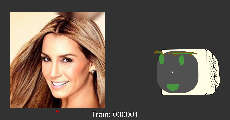
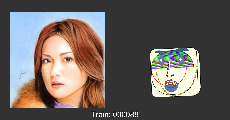
crt try

diff --git a/face.js b/face.js
@@ -32,15 +32,19 @@ function segment_average(segment) {
 function Face() {
   // these are state variables for a face
   // (your variables should be different!)
-  this.detailColour = [73, 150, 65];
+  this.detailColour = [93, 120, 185];
   this.mainColour = [255, 253, 227];
   this.num_eyes = 2;    // can be either 1 (cyclops) or 2 (two eyes)
   this.eye_shift = -1;   // range is -10 to 10
   this.mouth_size = 1;  // range is 0.5 to 8
 
-  this.chinColour = [153, 153, 51]
-  this.lipColour = [136, 68, 68]
-  this.eyebrowColour = [119, 85, 17]
+  this.chinColour = [153, 153, 51];
+  this.lipColour = [136, 68, 68];
+  this.eyebrowColour = [59, 95, 120];
+
+  
+
+  
 
   /*
    * Draw the face with position lists that include:
@@ -48,33 +52,88 @@ function Face() {
    *    bottom_lip, top_lip, nose_tip, nose_bridge, 
    */  
   this.draw = function(positions) {
-    console.log()
+    this.headPosX = positions.nose_bridge[0][0]; // Use nose coordinate as center of the face
+    this.headPosY = positions.nose_bridge[3][1];
+    this.headWidth = positions.chin[16][0] - positions.chin[0][0];
+    this.headHeight = positions.chin[8][1] - positions.nose_bridge[0][1];
+    this.noseTipCenterX = positions.nose_tip[2][0];
+    // this.noseTipSize_right = abs(positions.nose_tip[4][0]);
+    this.roundCorner = 0;
     // head
-    push();
+    
     ellipseMode(CENTER);
     angleMode(DEGREES);
     rectMode(CENTER);
-    // blendMode(LIGHTEST);
+    
     stroke(stroke_color);
     fill(this.mainColour);
-    shearX(5);
-    rect(segment_average(positions.chin)[0]+1.4, 0, 3.6, 3, 0.9);
-    rect(segment_average(positions.chin)[0]+1, 0, 3.6, 3.5, 0.5);
+
     push();
-    strokeWeight(0.01);
-    for (hatchingY = -1; hatchingY < 1.4; hatchingY += 0.1){
-      line(segment_average(positions.chin)[0]+2.8, hatchingY, segment_average(positions.chin)[0]+2.5-hatchingY*0.04, hatchingY-0.2);
-      line(segment_average(positions.chin)[0]+2.8, hatchingY, segment_average(positions.chin)[0]+3-hatchingY*0.02, hatchingY-0.1);
-      line(segment_average(positions.chin)[0]+2.8, hatchingY-0.2, segment_average(positions.chin)[0]+3-hatchingY*0.02, hatchingY);
+    // shearX(5);
+    if(this.headWidth < this.headHeight) {
+      this.roundCorner = this.headWidth * 0.25; 
+    } 
+    else if(this.headWidth > this.headHeight){
+      this.roundCorner = this.headHeight * 0.25;
     }
-    pop();
-    shearX(-5);
-    rect(segment_average(positions.chin)[0]+0.5, 0, 3.5, 3.5, 0.2);
-    noStroke();
-    fill(81, 81, 82);
-    rect(segment_average(positions.chin)[0], 0, 3.2, 3.2, 1.2);
+    // rect(segment_average(positions.chin)[0]+1.4, 0, 3.6, 3, 0.9);
+    // rect(segment_average(positions.chin)[0]+1, 0, 3.6, 3.5, 0.5);
+    rect(this.headPosX - this.noseTipCenterX *2.5, this.headPosY, this.headWidth*1.1, this.headHeight*1.25*1.1, this.roundCorner);
+    // shearX(-5);
+    rect(this.headPosX - this.noseTipCenterX * 1.5, this.headPosY, this.headWidth*1.1, this.headHeight*1.25*1.1, this.roundCorner * 0.6);
+
+    push();
+    // blendMode(HARD_LIGHT);
+    // noStroke();
+    fill(255, 50, 50);
+    rect(this.headPosX - this.noseTipCenterX, this.headPosY, this.headWidth, this.headHeight*1.25, this.roundCorner * 2);
+    fill(this.mainColour);
+    rect(this.headPosX - this.noseTipCenterX, this.headPosY, this.headWidth, this.headHeight*1.25, this.roundCorner * 2);
+    noFill();
+    stroke('red');
+    ellipse(this.headPosX - this.noseTipCenterX - this.headWidth / 2 + this.roundCorner * 2,
+            this.headPosY - this.headHeight*1.25 /2 + this.roundCorner * 2,
+            this.roundCorner * 2 * 2);
+
+    strokeWeight(0.01);
+    stroke(0);
+    for(topLeftCorner = 1; topLeftCorner < 90; topLeftCorner+=2){
+      stroke(255, 0, 0);
+      line(this.headPosX - this.noseTipCenterX - this.headWidth / 2 + this.roundCorner * 2 - cos(topLeftCorner) * this.roundCorner * 2,
+      this.headPosY - this.headHeight*1.25 /2 + this.roundCorner * 2 - sin(topLeftCorner) * this.roundCorner * 2,
+      this.headPosX - this.noseTipCenterX + this.headWidth / 2 - this.roundCorner * 2 + cos(topLeftCorner) * this.roundCorner * 2,
+      this.headPosY - this.headHeight*1.25 /2 + this.roundCorner * 2 - sin(topLeftCorner) * this.roundCorner * 2
+      );
+      stroke(0, 255, 0);
+      line(this.headPosX - this.noseTipCenterX - this.headWidth / 2 + this.roundCorner * 2 - cos(topLeftCorner-0.5) * this.roundCorner * 2,
+      this.headPosY - this.headHeight*1.25 /2 + this.roundCorner * 2 - sin(topLeftCorner-0.5) * this.roundCorner * 2,
+      this.headPosX - this.noseTipCenterX + this.headWidth / 2 - this.roundCorner * 2 + cos(topLeftCorner-0.5) * this.roundCorner * 2,
+      this.headPosY - this.headHeight*1.25 /2 + this.roundCorner * 2 - sin(topLeftCorner-0.5) * this.roundCorner * 2
+      );
+      stroke(0, 0, 255);
+      line(this.headPosX - this.noseTipCenterX - this.headWidth / 2 + this.roundCorner * 2 - cos(topLeftCorner+0.5) * this.roundCorner * 2,
+      this.headPosY - this.headHeight*1.25 /2 + this.roundCorner * 2 - sin(topLeftCorner+0.5) * this.roundCorner * 2,
+      this.headPosX - this.noseTipCenterX + this.headWidth / 2 - this.roundCorner * 2 + cos(topLeftCorner+0.5) * this.roundCorner * 2,
+      this.headPosY - this.headHeight*1.25 /2 + this.roundCorner * 2 - sin(topLeftCorner+0.5) * this.roundCorner * 2
+      );
+    }
+    
     pop();
 
+    pop();
+    // Draw hatch lines
+    push();
+    // strokeWeight(0.01);
+    // for (hatchingY = -1; hatchingY < 1.4; hatchingY += 0.1){
+    //   line(segment_average(positions.chin)[0]+2.8, hatchingY, segment_average(positions.chin)[0]+2.5-hatchingY*0.04, hatchingY-0.2);
+    //   line(segment_average(positions.chin)[0]+2.8, hatchingY, segment_average(positions.chin)[0]+3-hatchingY*0.02, hatchingY-0.1);
+    //   line(segment_average(positions.chin)[0]+2.8, hatchingY-0.2, segment_average(positions.chin)[0]+3-hatchingY*0.02, hatchingY);
+    // }
+    pop();
+
+    
+    
+    ///////////////////////////////////////////////////////////////
 
     // mouth
     push();
@@ -85,39 +144,45 @@ function Face() {
         0,180);
     pop();
 
+    ///////////////////////////////////////////////////////////////
+
     // eyebrows
+    
     fill( this.eyebrowColour);
     stroke( this.eyebrowColour);
-    strokeWeight(0.08);
-    this.draw_segment(positions.left_eyebrow);
-    this.draw_segment(positions.right_eyebrow);
-    fill(this.detailColour);
-    arc(segment_average(positions.left_eyebrow)[0], segment_average(positions.left_eyebrow)[1], 
-        segment_average(positions.left_eyebrow)[1]-segment_average(positions.left_eyebrow)[0], 0.25 * this.mouth_size, 
+    noStroke();
+    // this.draw_segment(positions.left_eyebrow);
+    // this.draw_segment(positions.right_eyebrow);
+    
+    // fill(this.detailColour);
+    arc(positions.left_eyebrow[2][0], positions.left_eyebrow[2][1], 
+      positions.left_eyebrow[4][0] - positions.left_eyebrow[0][0], (positions.left_eyebrow[4][0] - positions.left_eyebrow[0][0]) / 2, 
         180,360);
-    arc(segment_average(positions.right_eyebrow)[0], segment_average(positions.right_eyebrow)[1], 
-        segment_average(positions.right_eyebrow)[1]-segment_average(positions.right_eyebrow)[0], 0.25 * this.mouth_size, 
+    arc(positions.right_eyebrow[2][0], positions.right_eyebrow[2][1], 
+      positions.right_eyebrow[4][0] - positions.right_eyebrow[0][0], (positions.right_eyebrow[4][0] - positions.right_eyebrow[0][0]) / 2, 
         180,360);
 
     // draw the chin segment using points
-    // fill(this.chinColour);
-    // stroke(this.chinColour);
-    // this.draw_segment(positions.chin);
+    fill(this.chinColour);
+    stroke(this.chinColour);
+    this.draw_segment(positions.chin);
 
-    // fill(100, 0, 100);
-    // stroke(100, 0, 100);
-    // this.draw_segment(positions.nose_bridge);
-    // this.draw_segment(positions.nose_tip);
+    fill(100, 0, 100);
+    stroke(100, 0, 100);
+    this.draw_segment(positions.nose_bridge);
+    this.draw_segment(positions.nose_tip);
 
     strokeWeight(0.03);
 
-    // fill(this.lipColour);
-    // stroke(this.lipColour);
-    // this.draw_segment(positions.top_lip);
-    // this.draw_segment(positions.bottom_lip);
+    fill(this.lipColour);
+    stroke(this.lipColour);
+    this.draw_segment(positions.top_lip);
+    this.draw_segment(positions.bottom_lip);
 
     let left_eye_pos = segment_average(positions.left_eye);
     let right_eye_pos = segment_average(positions.right_eye);
+
+    ///////////////////////////////////////////////////////////////
 
     // eyes
     noStroke();
@@ -127,9 +192,9 @@ function Face() {
       ellipse(left_eye_pos[0], left_eye_pos[1], 0.4, 0.8);
       ellipse(right_eye_pos[0], right_eye_pos[1], 0.4, 0.8);
 
-      // fill(this.mainColour);
-      // ellipse(left_eye_pos[0] + curEyeShift, left_eye_pos[1], 0.18);
-      // ellipse(right_eye_pos[0] + curEyeShift, right_eye_pos[1], 0.18);
+      fill(this.mainColour);
+      ellipse(left_eye_pos[0] + curEyeShift, left_eye_pos[1], 0.18);
+      ellipse(right_eye_pos[0] + curEyeShift, right_eye_pos[1], 0.18);
     }
     else {
       let eyePosX = (left_eye_pos[0] + right_eye_pos[0]) / 2;
@@ -142,19 +207,23 @@ function Face() {
       ellipse(eyePosX - 0.1 + curEyeShift, eyePosY, 0.18);
     }
 
+    ///////////////////////////////////////////////////////////////
+
     // nose
     push();
     strokeWeight(0.08);
+    stroke(255);
     // let noseTop = this.draw_segment(positions.nose_bridge);
     // let noseBottom = this.draw_segment(positions.nose_tip);
     line(positions.nose_bridge[0][0], positions.nose_bridge[0][1], positions.nose_tip[2][0], positions.nose_tip[2][1]);
     pop();
 
-    ///////////////////////////////
+    ///////////////////////////////////////////////////////////////
    fill(255);
    ellipse(0,0, 0.1,0.1); //center point
   //  rect(-2,-2,4.5,4); //sizing debug 
   }
+
 
   // example of a function *inside* the face object.
   // this draws a segment, and do_loop will connect the ends if true

diff --git a/README.md b/README.md
@@ -2,4 +2,7 @@
 [![Open in Visual Studio Code](https://classroom.github.com/assets/open-in-vscode-718a45dd9cf7e7f842a935f5ebbe5719a5e09af4491e668f4dbf3b35d5cca122.svg)](https://classroom.github.com/online_ide?assignment_repo_id=11103452&assignment_repo_type=AssignmentRepo)
 ## 2023 MDDN342 Assignment 3: Data Mappings
 
-Just started and made a rough CRT monitor. The eyebrows are a bit confusing for now.
+Now the CRT face will relate with the angle of faces, just a bit offset of the rect shape and the size according to face trackings.
+I also tried the color 'blend' mode of p5JS to mimic that CRT look, but it doesn't work well, so I drew some RGB lines (fit in the screen's shape, cornered rect) and it seems OK for now. 
+Basically, to draw the lines within the screen boundary (a round corner rect), I need to get the radius and coordinates of the tangent ellipse for each corner of the rect, and then just use some magic power of Sin/Cos to 'for loop' the lines out. The tangent ellipse's radius is equal to the big rect's corner radius.
+I'll tidy the mess later.
